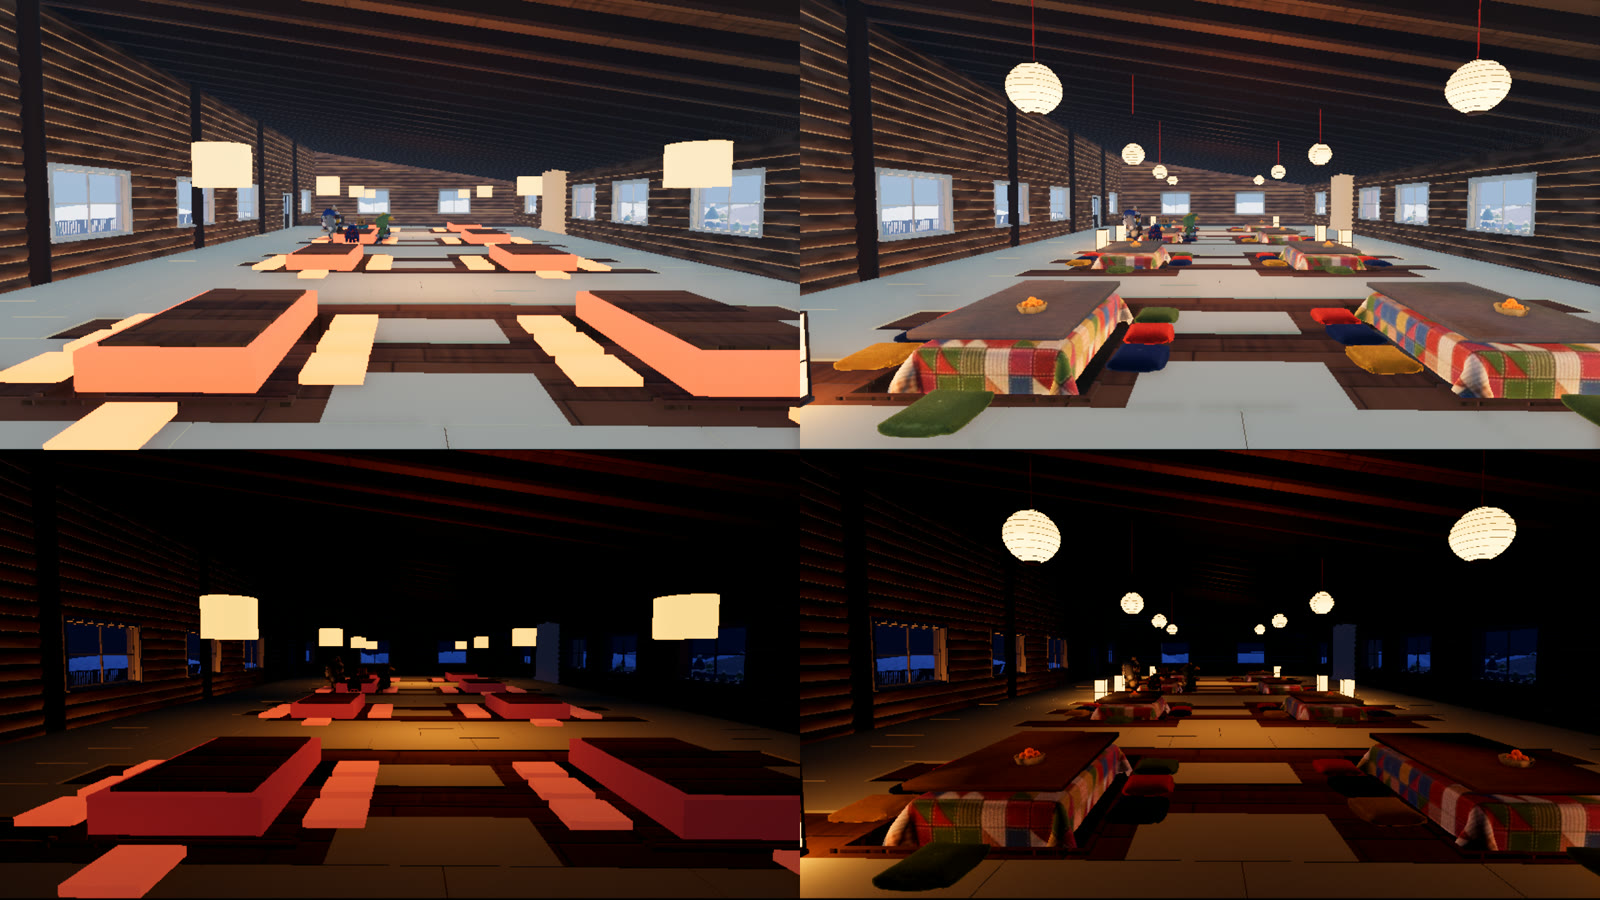
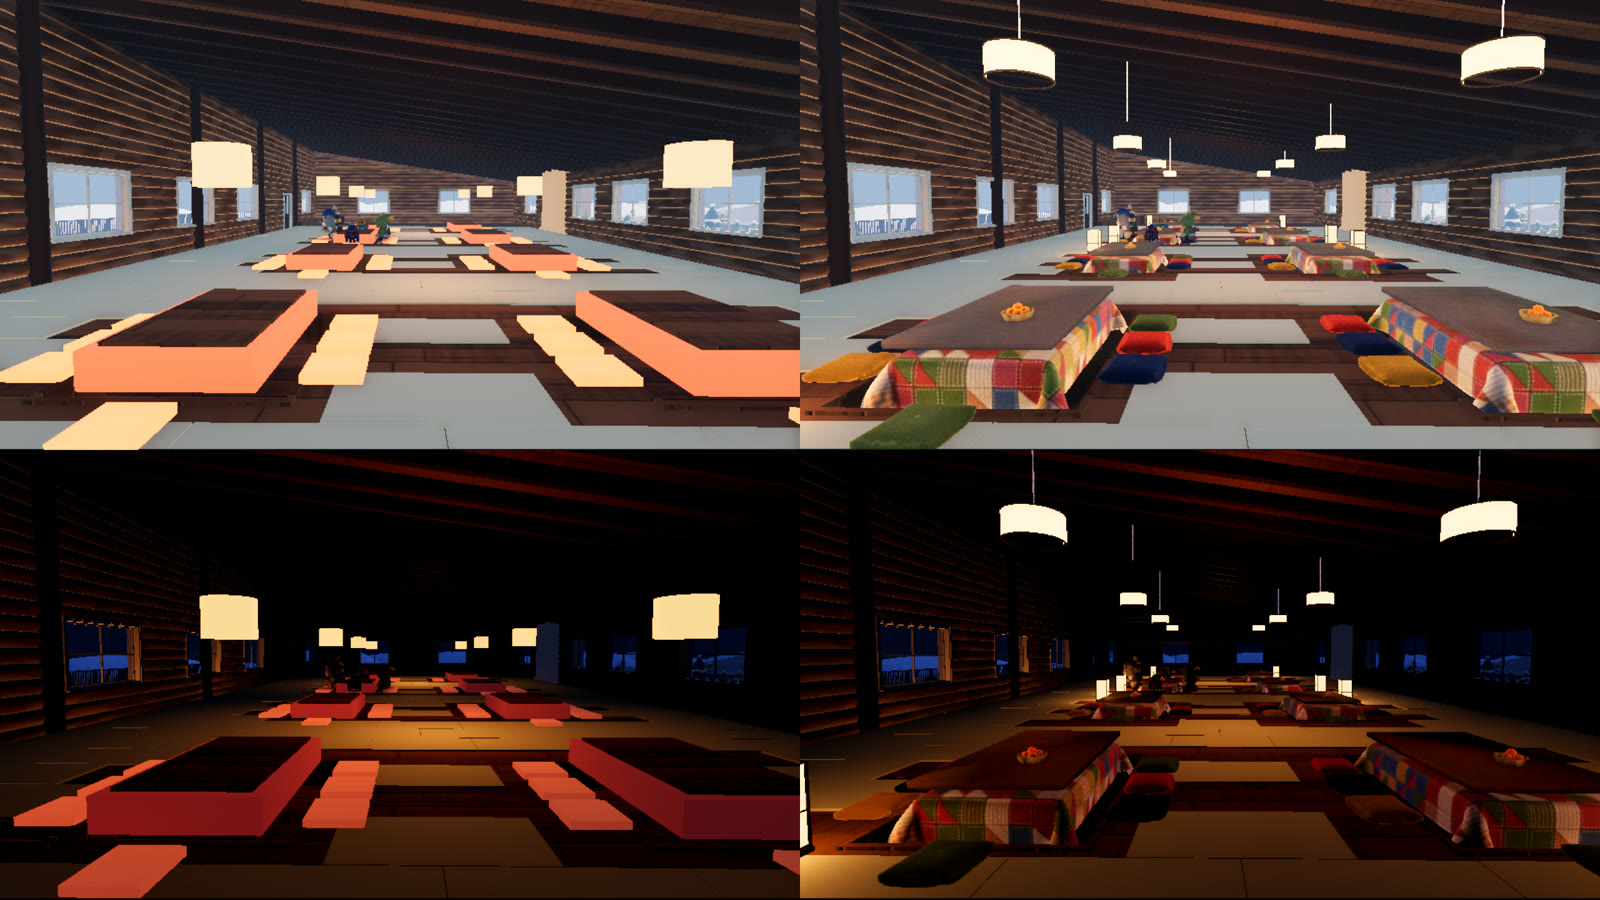
2 階のこたつの上の吊り灯りをプリーツの筒にする（代表「まんなかの筒」）
前と後の絵を撮り直し、形の案の絵は外した

diff --git a/lodge/README.md b/lodge/README.md
@@ -54,7 +54,7 @@ Blender 5.2 を画面なしで動かす。外の素材は使わない。
 - 原点は 1 階の外形の中心の真下、雪の地面の高さ。正面（南）が -Y（Blender）＝ +Z（Godot）を向く
 - 機械の置き場の目印（空の節点）: `slot_food_kitchen`、`slot_craft_rental`、`slot_vending_1`〜`3`。場所と向きは `dims.py` の `SLOTS`（並びは [design/lodge-layout/](../design/lodge-layout/)）。機械は `game/main.gd` が置く
 - 2 階の掘りごたつの目印（空の節点）: `slot_kotatsu_0`〜`7`（穴のまんなか、畳の面。0〜3 が南の列、4〜7 が北の列、西から）。ロッジは穴だけを作り、こたつと座布団は `game/main.gd` が `props/sets/kotatsu_lodge_<柄>.tscn` を置く（2026-11-01、箱のこたつから差し替え）。大きさは `dims.py` の `KOTATSU_W`・`KOTATSU_D`・`KOTATSU_TOP`・`PIT_OUT`・`PIT_DEPTH`、当たり判定は `KOTATSU_FLARE` まで
-- 2 階のこたつの上の吊り灯りの目印: `slot_pendant_0`〜`7`（卓のまんなかの上、天井の野地板の下面。番号は `slot_kotatsu_*` と同じ）。`game/main.gd` が `props/furniture/pendant_<形>.glb` を、傘の上端が畳から `KOTATSU_LAMP`（3.2 m）になるよう吊り、コードを天井まで伸ばす（2026-11-02、畳の上 1.75 m に浮いていた紙の筒から替えた）。座敷の灯り `light_lantern_*` も同じ高さへ上げた
+- 2 階のこたつの上の吊り灯りの目印: `slot_pendant_0`〜`7`（卓のまんなかの上、天井の野地板の下面。番号は `slot_kotatsu_*` と同じ）。`game/main.gd` が `props/furniture/pendant_drum.glb`（プリーツの筒）を、傘の上端が畳から `KOTATSU_LAMP`（3.2 m）になるよう吊り、コードを天井まで伸ばす（2026-11-02、畳の上 1.75 m に浮いていた紙の筒から替えた）。座敷の灯り `light_lantern_*` も同じ高さへ上げた
 - 灯りの場所の目印（空の節点）: `light_lamp_0`〜`2`（食堂の天井）、`light_lantern_0`〜`1`（座敷）、`light_fire`（炉）、`light_vestibule`（風除室）。食堂は炉を入れて 4 つまで。ゲームはここに暖色の OmniLight3D を影なしで灯し、炉の火だけ揺らす
 - 書き出しでは面取りを外し、形を 2 つの物体にまとめる。建物は `lodge_body`、中の家具と小物（卓・椅子・灯り・自販機など）は `lodge_props_interior`（名前の prop で 360° 映像から外せる）。動かす自動ドアだけ別。三角形はロッジ全体で 10 万以下が目安（いま約 6.7 万）
 - 自動ドアの戸は `autodoor_l` / `autodoor_r`（ガラスは `autodoor_glass_l` / `_r`）。`lodge.gd` が、人（CharacterBody3D）が戸の前後 3 m に入ると左右へ 1.4 m 引き分ける
@@ -73,4 +73,4 @@ Blender 5.2 を画面なしで動かす。外の素材は使わない。
 | `05-day-kotatsu.png` | カット 4: 2 階の掘りごたつ |
 | `05-day-terrace.png` | カット 5: テラスから丘 |
 | `06-kotatsu-swap-*.jpg` | 2 階のこたつの差し替え（ゲームの画面。左が前、右が後。上が昼、下が夜）。`-sit-side` は 7 体を座布団に座らせた横から（`06-kotatsu-before-sit-side` が前） |
-| `06-kotatsu-pendant-night.jpg` `06-kotatsu-pendant-close.jpg` | 代表に聞く案: こたつの上の吊り灯りの形（左から提灯・プリーツの筒・円錐）。`-night` は夜の 2 列と近く、`-close` は見上げ（上が昼、下が夜） |
+| `06-kotatsu-pendant.jpg` | こたつの上の吊り灯り（プリーツの筒。代表「まんなかの筒」）を見上げた所（左が昼、右が夜） |
